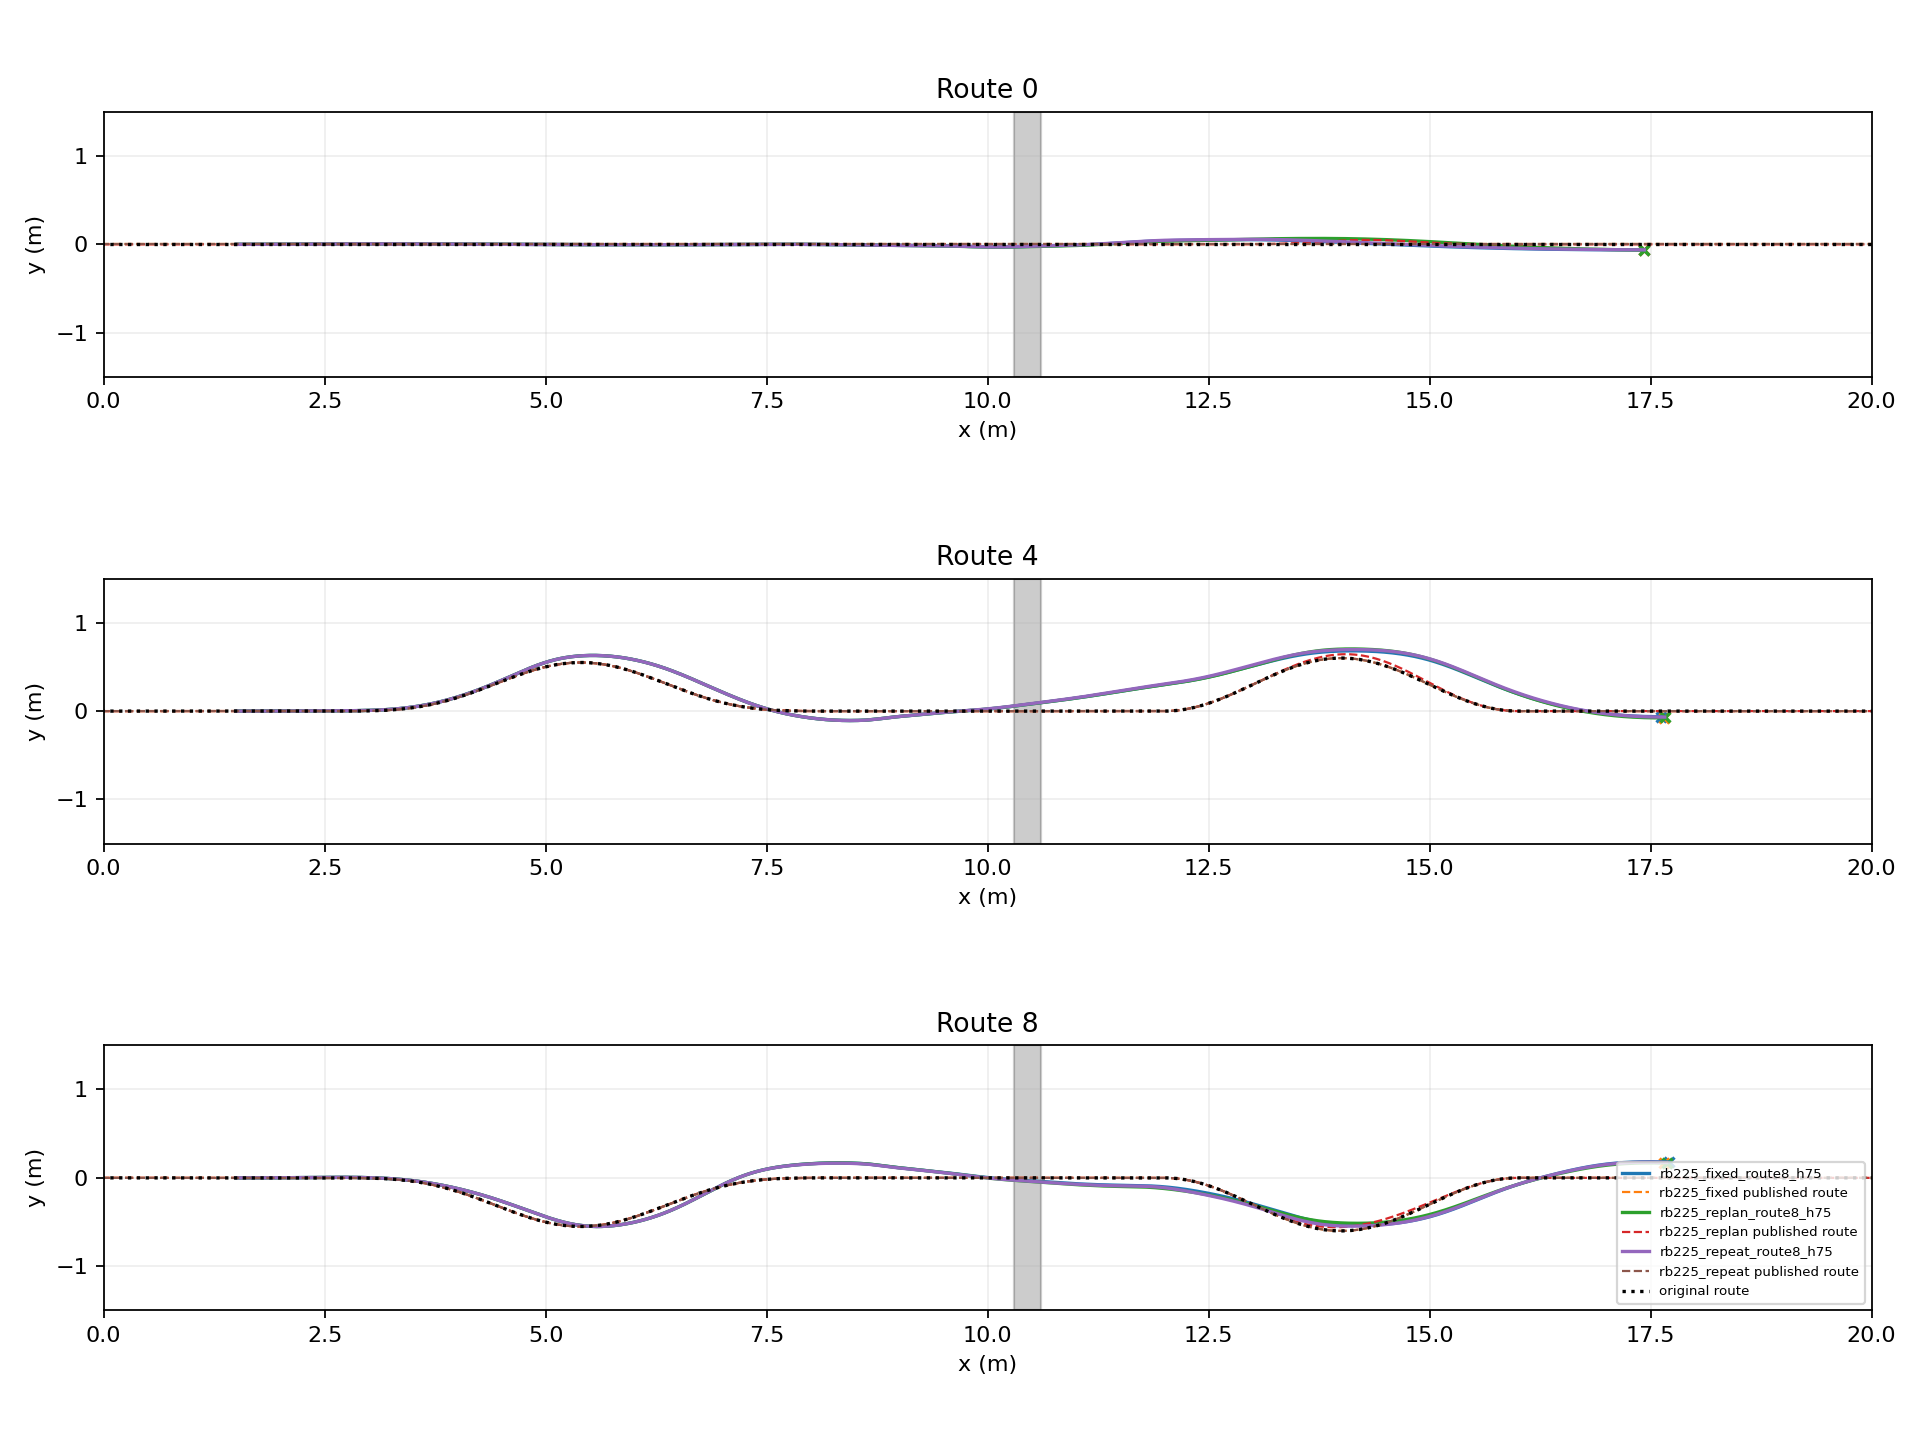
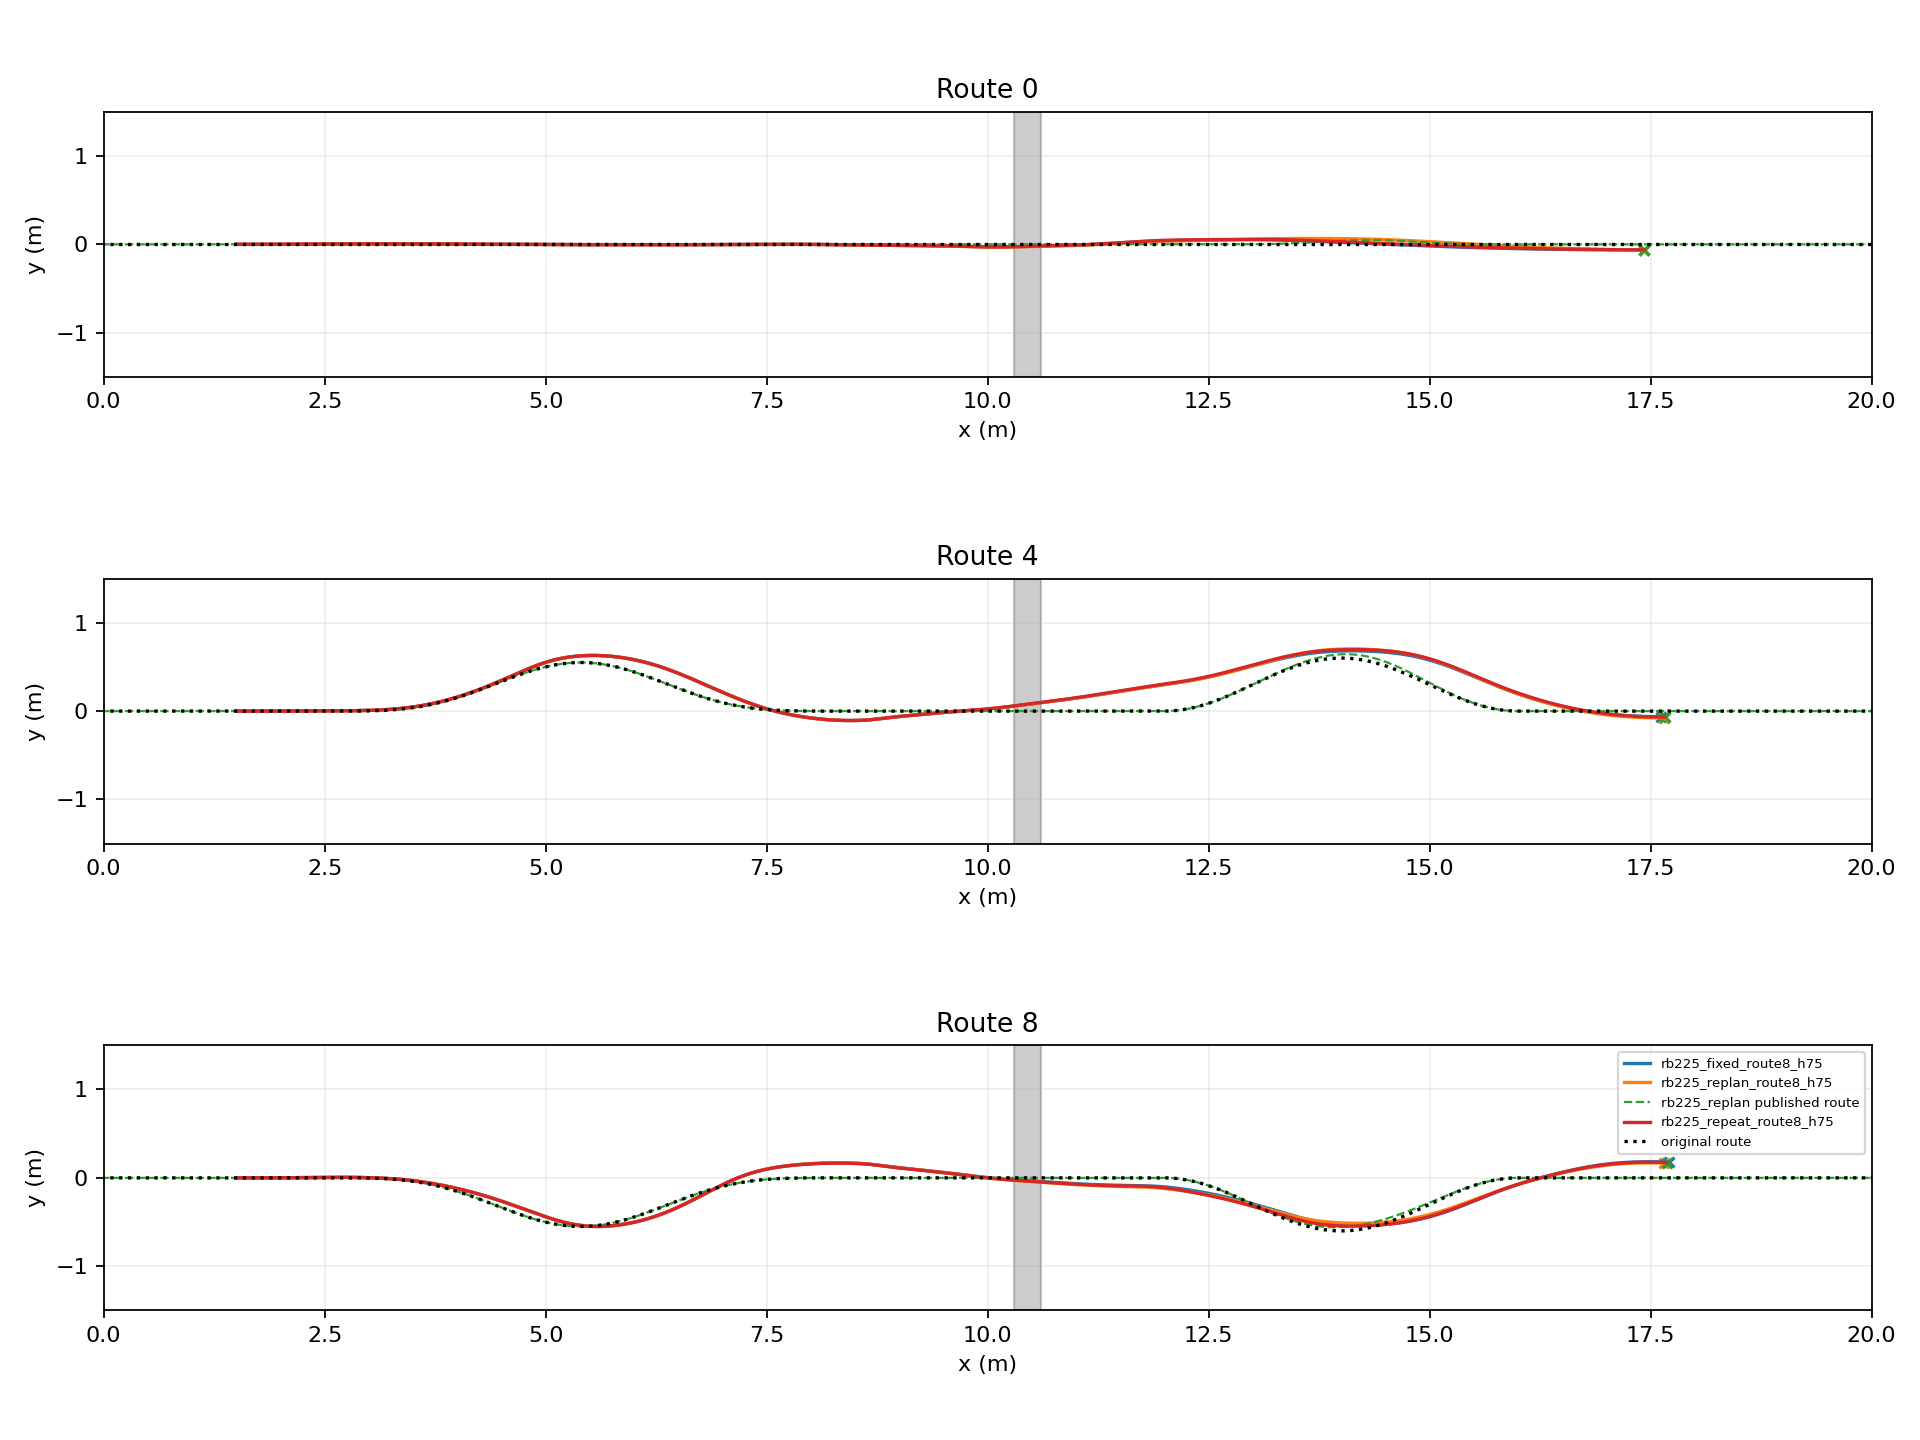
Avoid labeling float32 reference rounding as a published route change

diff --git a/learning/cli/report_playground_handoff.py b/learning/cli/report_playground_handoff.py
@@ -17,7 +17,7 @@ for ax,route in zip(axes[:,0],d['routes']):
   z=np.load(a.root/row.get('case_dir',f"{row['skill']}_route{route}_{row['continuation']}")/'trajectory.npz');t=z['trace']
   ax.plot(t[:,1],t[:,2],label=row.get('case_dir',row['skill']+' / '+row['continuation']),linestyle='-' if row['continuation']=='h75' else '--')
   ax.scatter(t[-1,1],t[-1,2],marker='x',s=20)
-  if 'published_reference_xy' in z and not np.array_equal(z['published_reference_xy'],z['reference_xy']):
+  if 'published_reference_xy' in z and not np.allclose(z['published_reference_xy'],z['reference_xy'],atol=2e-6,rtol=0):
    ax.plot(z['published_reference_xy'][:,0],z['published_reference_xy'][:,1],ls='--',lw=1,label=row['skill']+' published route')
   xmin=min(xmin,float(t[:,1].min())-.2);xmax=max(xmax,float(t[:,1].max())+.2)
   ymin=min(ymin,float(t[:,2].min())-.2);ymax=max(ymax,float(t[:,2].max())+.2)
